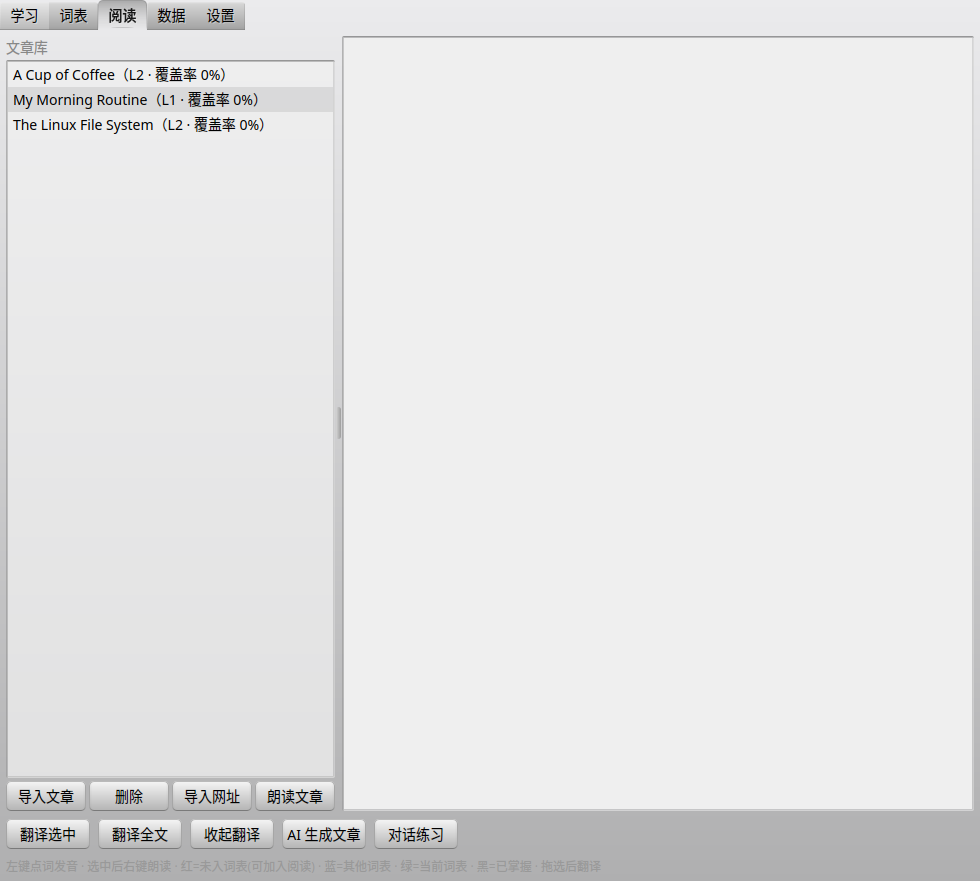
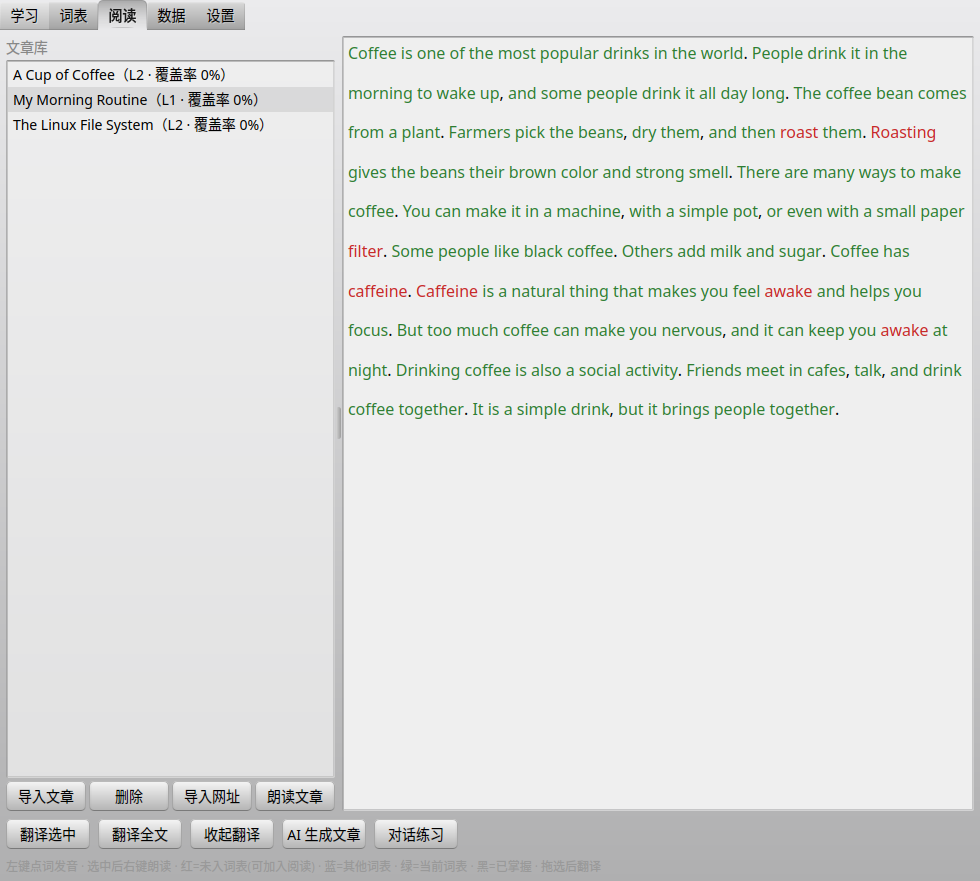
修复截图/演示模式阅读页文章未加载（loadArticle改为可调用）

diff --git a/src/main.cpp b/src/main.cpp
@@ -225,8 +225,16 @@ int main(int argc, char *argv[])
             QTimer::singleShot(step.ms, &window, step.fn);
     }
     if (!screenshotPath.isEmpty()) {
-        QTimer::singleShot(1200, &window, [&window, screenshotTab] {
+        QTimer::singleShot(1200, &window, [&window, screenshotTab, &store] {
             window.showTab(screenshotTab);
+            if (screenshotTab == 2) {
+                const auto articles = store.listArticles();
+                if (!articles.isEmpty()) {
+                    QMetaObject::invokeMethod(
+                        &window, "loadArticle", Qt::QueuedConnection,
+                        Q_ARG(qint64, articles.first().id));
+                }
+            }
         });
         QTimer::singleShot(2200, &window,
                            [&window, screenshotPath] {

diff --git a/src/mainwindow.h b/src/mainwindow.h
@@ -109,7 +109,7 @@ private:
     void infoBox(const QString &title, const QString &text);
     QString findAssetCsv() const;
     void refreshArticleList();
-    void loadArticle(qint64 articleId);
+    Q_INVOKABLE void loadArticle(qint64 articleId);
     QString renderArticleHtml(const QString &content) const;
     QString sentenceForWord(const QString &content,
                             const QString &word) const;
